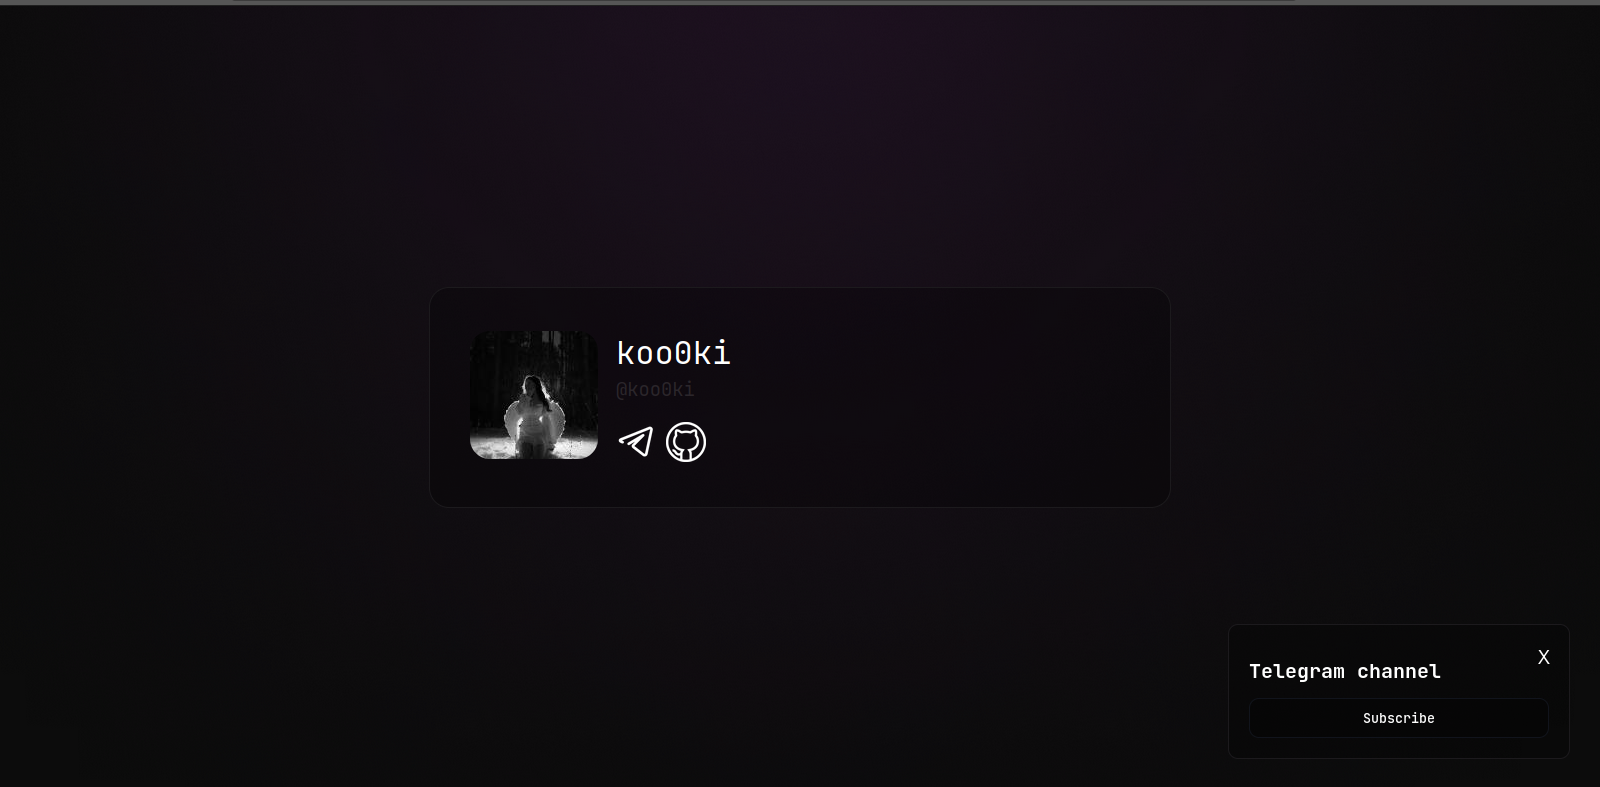
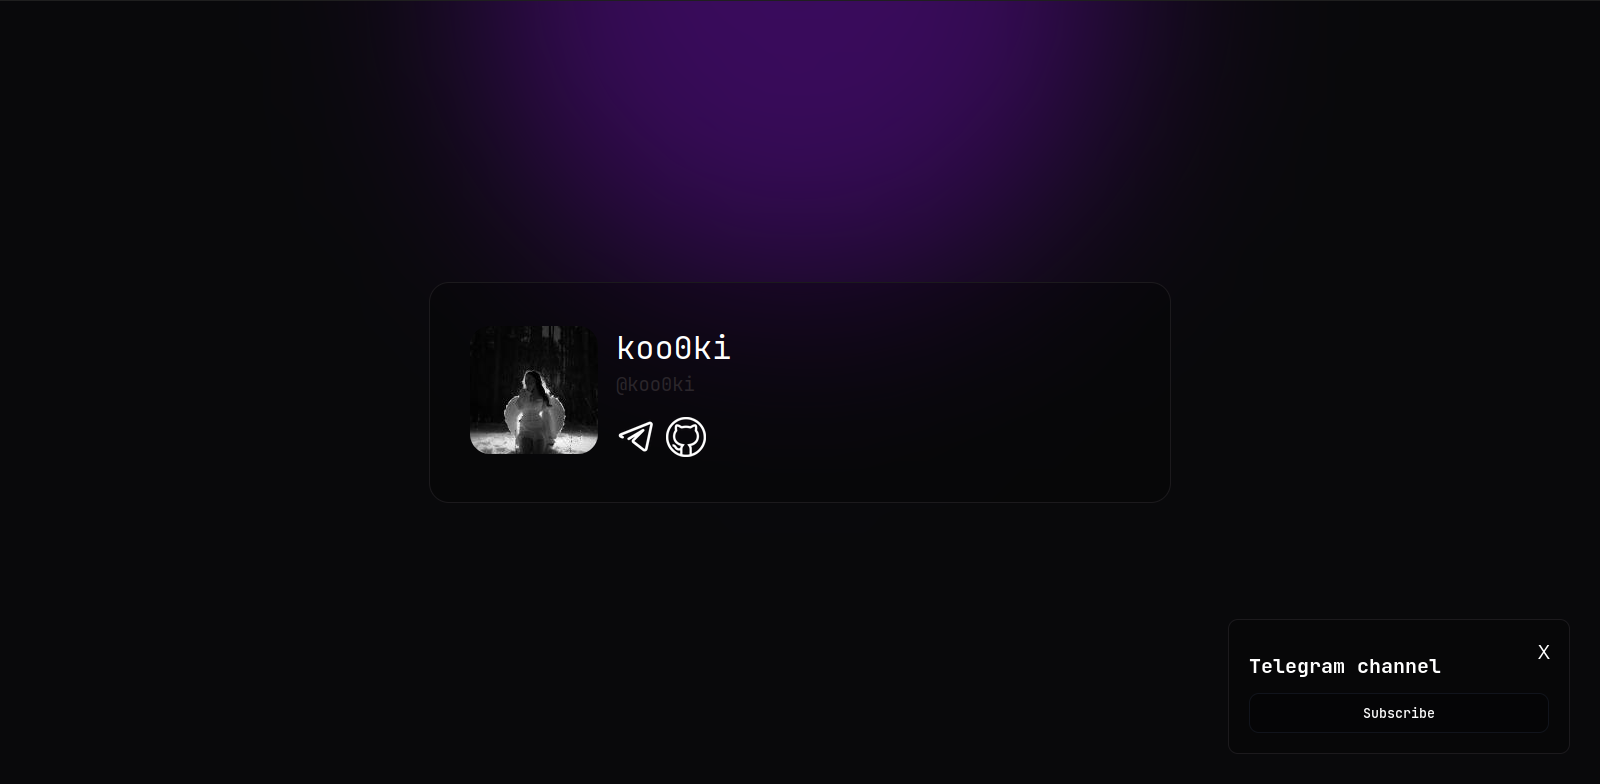
mobile adaptation

diff --git a/views/assets/style.css b/views/assets/style.css
@@ -59,6 +59,7 @@ body {
     border-radius: 20px;
     width: 100%;
     height: auto;
+    pointer-events: none;
 }
 
 .main {
@@ -168,4 +169,20 @@ body {
 
 .link:hover {
     animation: bounce 1s;
+}
+
+@media only screen and (max-width: 480px) {
+    .blur-background {
+        position: absolute;
+        top: 50%;
+        left: 50%;
+        transform: translate(-50%, -215%);
+        width: 300px;
+        height: 300px;
+        background-color: #6A0DAD;
+        opacity: 0.5;
+        border-radius: 50%;
+        z-index: 0;
+        filter: blur(10rem);
+    }
 }
